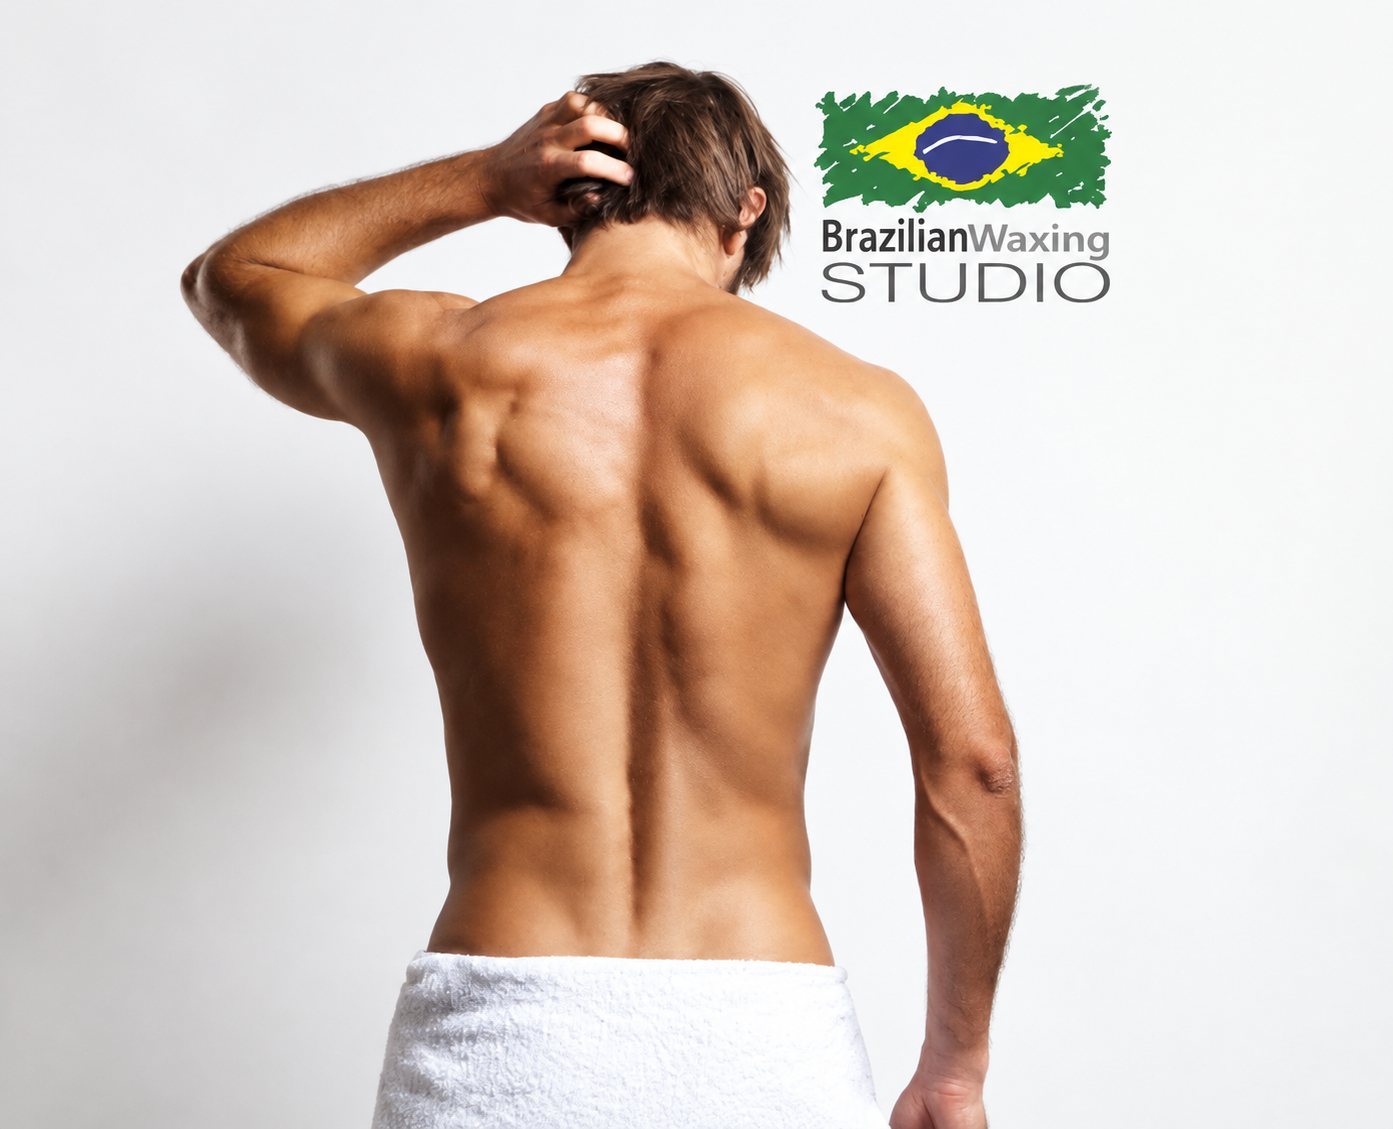
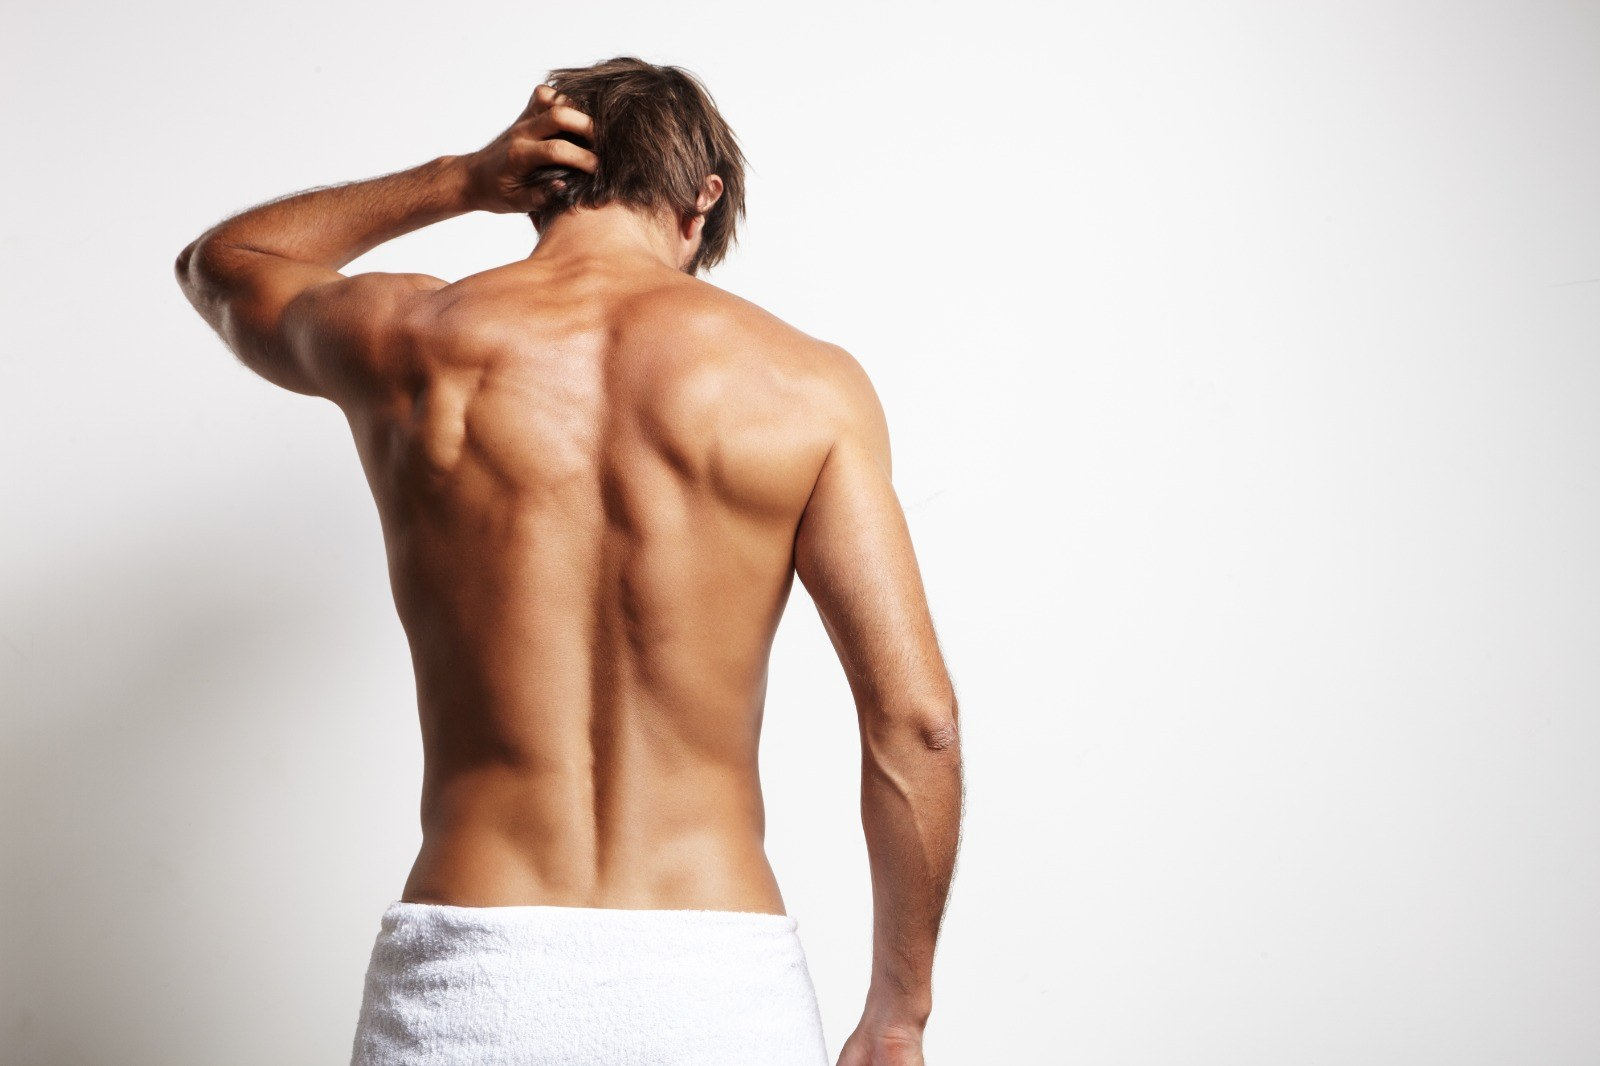
Atualiza o site

diff --git a/index.html b/index.html
@@ -12,13 +12,12 @@
 <header class="site-header">
   <div class="container nav-row">
     <a href="index.html" class="logo" aria-label="Brazilian Wax Studio — home">
-      <img src="assets/logo.png" alt="Brazilian Wax Studio" width="156" height="52">
+      <img src="assets/logo.png" alt="Brazilian Wax Studio" width="72" height="52">
     </a>
     <nav class="nav-links" id="nav-links">
       <a href="index.html" class="active">Home</a>
       <a href="index.html#male-waxing">Male Waxing</a>
       <a href="male-intimate-waxing.html">Intimate Waxing</a>
-      <a href="index.html#body-waxing">Body Waxing</a>
       <a href="sobre-marcia.html">About Me</a>
       <a href="faq.html">Prices &amp; FAQ</a>
     </nav>
@@ -46,7 +45,7 @@
       <p class="hero-treatments" style="margin-top:16px; color:var(--charcoal-60);">Brazilian · Hollywood · Body Waxing</p>
     </div>
     <div class="hero-photo">
-      <figure class="photo-frame"><img src="assets/trabalho-costas-toalha.jpg" alt="Man with a towel after a back waxing treatment, Brazilian Wax Studio London" width="1400" height="1135"></figure>
+      <figure class="photo-frame"><img src="assets/trabalho-costas-toalha.jpg" alt="Man with a towel after a back waxing treatment, Brazilian Wax Studio London" width="1400" height="933"></figure>
       <span class="hero-photo__tag">Specialist male waxing · since 2008</span>
     </div>
   </div>
@@ -307,16 +306,24 @@
   </div>
 </section>
 
-<!-- ============ 09 FAQ ============ -->
-<section class="section section--tight">
-  <div class="container prose-wrap">
+<section class="section section--slate" id="studio-location">
+  <div class="container">
     <div class="section-head center">
-      <span class="eyebrow">Frequently asked questions</span>
-      <h2>Quick answers</h2>
+      <span class="eyebrow">Visit the studio</span>
+      <h2>Find Us in Holborn</h2>
+      <p>7/8 Little Turnstile, Holborn, London WC1V 7DX</p>
     </div>
-    <div class="faq-list"><details><summary>How long should the hair be before waxing?</summary><p>If your hair is long, trimming it to roughly 0.5 cm (about a quarter of an inch) helps the wax grip properly and makes the treatment more comfortable. Please do not shave in the days before your appointment. If you are unsure, ask when you book.</p></details><details><summary>What is the difference between Brazilian and Hollywood waxing?</summary><p>In general, a Hollywood removes all hair from the intimate area, while a Brazilian can leave some hair in place if you prefer. We will talk through exactly what you would like before starting. Full Male Brazilian £60.00, Full Male Hollywood £70.00.</p></details><details><summary>Is male intimate waxing suitable for a first-time client?</summary><p>Yes. That is perfectly normal. You do not need to know the terminology or exactly which treatment to choose. I will discuss the options and answer your questions before I start. See the <a href="first-time.html">first-time guide</a>.</p></details><details><summary>What should I do before and after my appointment?</summary><p>Before: trim long hair and avoid shaving in the days beforehand. After: avoid direct sun and sunbeds for 48 hours, and avoid saunas, hot baths and intense exercise for 24 hours. Some redness is normal and usually settles quickly.</p></details><details><summary>How do I choose the right treatment?</summary><p>You do not need to decide in advance. Tell me what you would like and I will explain the options before I start. If you are unsure, start with the price list above or ask when you book.</p></details></div>
-    <div class="hero-ctas flex-center" style="margin-top:26px;">
-      <a href="faq.html" class="btn btn-outline">Read all FAQs</a>
+    <div class="location-media">
+      <img src="assets/studio-entrance.jpg" alt="Entrance to Brazilian Wax Studio" class="studio-photo">
+      <div class="location-info">
+        <span class="eyebrow">Studio address</span>
+        <h3>Brazilian Wax Studio</h3>
+        <p>7/8 Little Turnstile<br>Holborn, London WC1V 7DX</p>
+        <div class="hero-ctas">
+          <a class="btn btn-outline" href="https://www.google.com/maps/dir/?api=1&amp;destination=7%2F8+Little+Turnstile%2C+Holborn%2C+London+WC1V+7DX" target="_blank" rel="noopener">Get directions</a>
+          <a class="btn btn-primary" href="https://wa.me/447851423765" target="_blank" rel="noopener">Contact to book</a>
+        </div>
+      </div>
     </div>
   </div>
 </section>
@@ -355,28 +362,6 @@
   </div>
 </section>
 
-<section class="section section--slate" id="studio-location">
-  <div class="container">
-    <div class="section-head center">
-      <span class="eyebrow">Visit the studio</span>
-      <h2>Find Us in Holborn</h2>
-      <p>7/8 Little Turnstile, Holborn, London WC1V 7DX</p>
-    </div>
-    <div class="location-media">
-      <img src="assets/studio-entrance.jpg" alt="Entrance to Brazilian Wax Studio" class="studio-photo">
-      <div class="location-info">
-        <span class="eyebrow">Studio address</span>
-        <h3>Brazilian Wax Studio</h3>
-        <p>7/8 Little Turnstile<br>Holborn, London WC1V 7DX</p>
-        <div class="hero-ctas">
-          <a class="btn btn-outline" href="https://www.google.com/maps/dir/?api=1&amp;destination=7%2F8+Little+Turnstile%2C+Holborn%2C+London+WC1V+7DX" target="_blank" rel="noopener">Get directions</a>
-          <a class="btn btn-primary" href="https://wa.me/447851423765" target="_blank" rel="noopener">Contact to book</a>
-        </div>
-      </div>
-    </div>
-  </div>
-</section>
-
 <!-- ============ CTA ============ -->
 <section class="section section--navy section--tight">
   <div class="container text-center">
@@ -394,7 +379,7 @@
   <div class="container footer-grid">
     <div>
       <div class="footer-logo">
-        <img src="assets/logo.png" alt="Brazilian Wax Studio" width="180" height="60" loading="lazy">
+        <img src="assets/logo.png" alt="Brazilian Wax Studio" width="66" height="48" loading="lazy">
       </div>
       <p>London's premier specialist Brazilian waxing studio for men and women, based in Holborn, Central London. Owned and operated by Marcia, master therapist since 2008.</p>
     </div>

diff --git a/male-intimate-waxing.html b/male-intimate-waxing.html
@@ -12,13 +12,12 @@
 <header class="site-header">
   <div class="container nav-row">
     <a href="index.html" class="logo" aria-label="Brazilian Wax Studio — home">
-      <img src="assets/logo.png" alt="Brazilian Wax Studio" width="156" height="52">
+      <img src="assets/logo.png" alt="Brazilian Wax Studio" width="72" height="52">
     </a>
     <nav class="nav-links" id="nav-links">
       <a href="index.html">Home</a>
       <a href="index.html#male-waxing">Male Waxing</a>
       <a href="male-intimate-waxing.html" class="active">Intimate Waxing</a>
-      <a href="index.html#body-waxing">Body Waxing</a>
       <a href="sobre-marcia.html">About Me</a>
       <a href="faq.html">Prices &amp; FAQ</a>
     </nav>
@@ -42,7 +41,7 @@
 </section>
 
 <section class="section section--tight">
-  <div class="container"><figure class="photo-frame photo-frame--wide"><img src="assets/trabalho-costas-toalha.jpg" alt="Client wrapped in a towel after waxing — private and discreet service" width="1400" height="1135" loading="lazy"></figure></div>
+  <div class="container"><figure class="photo-frame photo-frame--wide"><img src="assets/trabalho-costas-toalha.jpg" alt="Client wrapped in a towel after waxing — private and discreet service" width="1400" height="933" loading="lazy"></figure></div>
 </section>
 
 <section class="section">
@@ -71,6 +70,26 @@
       </div>
     </div>
     <div class="hero-ctas flex-center" style="margin-top:30px;"><a href="https://wa.me/447851423765" class="btn btn-primary" target="_blank" rel="noopener">Book via WhatsApp</a></div>
+  </div>
+</section>
+
+<section class="section section--tight">
+  <div class="container">
+    <div class="section-head center"><span class="eyebrow">Know your options</span><h2>Brazilian, Hollywood &amp; Colombian at a glance</h2><p>A simple visual guide to the three most requested male intimate treatments. Marcia will talk through exactly what you would like before she starts.</p></div>
+    <div class="treatment-grid">
+      <figure class="treatment-card">
+        <div class="treatment-card__img"><img src="assets/urso-male-brazilian.png" alt="Teddy bear illustration of a male Brazilian wax" width="909" height="687" loading="lazy"></div>
+        <figcaption><h3>Male Brazilian</h3><p>Hair is removed from the intimate area, and some can be left in place if you prefer.</p><span class="treatment-card__price">£60.00</span></figcaption>
+      </figure>
+      <figure class="treatment-card">
+        <div class="treatment-card__img"><img src="assets/urso-male-hollywood.png" alt="Teddy bear illustration of a male Hollywood wax" width="1068" height="777" loading="lazy"></div>
+        <figcaption><h3>Male Hollywood</h3><p>All hair is removed from the intimate area for a completely smooth result.</p><span class="treatment-card__price">£70.00</span></figcaption>
+      </figure>
+      <figure class="treatment-card">
+        <div class="treatment-card__img"><img src="assets/urso-male-colombian.png" alt="Teddy bear illustration of a male Colombian wax" width="706" height="900" loading="lazy"></div>
+        <figcaption><h3>Male Colombian</h3><p>Marcia will explain exactly what this treatment covers and help you decide if it suits you.</p><span class="treatment-card__price">£50.00</span></figcaption>
+      </figure>
+    </div>
   </div>
 </section>
 
@@ -135,7 +154,7 @@
   <div class="container footer-grid">
     <div>
       <div class="footer-logo">
-        <img src="assets/logo.png" alt="Brazilian Wax Studio" width="180" height="60" loading="lazy">
+        <img src="assets/logo.png" alt="Brazilian Wax Studio" width="66" height="48" loading="lazy">
       </div>
       <p>London's premier specialist male waxing studio, based in Holborn, Central London. Owned and operated by Marcia, master therapist since 2008.</p>
     </div>

diff --git a/what-to-expect.html b/what-to-expect.html
@@ -12,13 +12,12 @@
 <header class="site-header">
   <div class="container nav-row">
     <a href="index.html" class="logo" aria-label="Brazilian Wax Studio — home">
-      <img src="assets/logo.png" alt="Brazilian Wax Studio" width="156" height="52">
+      <img src="assets/logo.png" alt="Brazilian Wax Studio" width="72" height="52">
     </a>
     <nav class="nav-links" id="nav-links">
       <a href="index.html">Home</a>
       <a href="index.html#male-waxing">Male Waxing</a>
       <a href="male-intimate-waxing.html">Intimate Waxing</a>
-      <a href="index.html#body-waxing">Body Waxing</a>
       <a href="sobre-marcia.html">About Me</a>
       <a href="faq.html">Prices &amp; FAQ</a>
     </nav>
@@ -71,6 +70,16 @@
   </div>
 </section>
 
+<section class="section section--tight">
+  <div class="container">
+    <div class="section-head center"><span class="eyebrow">Before you arrive</span><h2>Arrive fresh and clean</h2><p>A shower beforehand is all the preparation your skin needs. Arrive with clean, dry skin, and avoid a heavy workout or hot sauna just before.</p></div>
+    <div class="photo-pair">
+      <figure><img src="assets/chuveiro-esponja-ombro.jpg" alt="Man washing his shoulder with a sponge in the shower" width="1600" height="941" loading="lazy"></figure>
+      <figure><img src="assets/chuveiro-esponja-costas.jpg" alt="Man washing his back with a sponge in the shower" width="1600" height="900" loading="lazy"></figure>
+    </div>
+  </div>
+</section>
+
 <section class="section section--slate section--tight">
   <div class="container prose-wrap">
     <div class="section-head center"><span class="eyebrow">Intimate treatments</span><h2>What clients can expect</h2></div>
@@ -98,7 +107,7 @@
   <div class="container footer-grid">
     <div>
       <div class="footer-logo">
-        <img src="assets/logo.png" alt="Brazilian Wax Studio" width="180" height="60" loading="lazy">
+        <img src="assets/logo.png" alt="Brazilian Wax Studio" width="66" height="48" loading="lazy">
       </div>
       <p>London's premier specialist Brazilian waxing studio for men and women, based in Holborn, Central London. Owned and operated by Marcia, master therapist since 2008.</p>
     </div>

diff --git a/style.css b/style.css
@@ -1147,3 +1147,20 @@ h3{ font-weight: 600; }
   .site-header .nav-cta .nav-book-btn{ padding: 8px 12px; font-size: 12px; white-space: nowrap; }
   .logo img{ height: 34px; }
 }
+
+/* ---------- Treatment illustrations (Brazilian / Hollywood / Colombian) ---------- */
+.treatment-grid{ display:grid; grid-template-columns:repeat(3,1fr); gap:26px; }
+.treatment-card{ margin:0; background:var(--white); border:1px solid var(--border); border-radius:var(--radius); box-shadow:var(--shadow-soft); overflow:hidden; display:flex; flex-direction:column; }
+.treatment-card__img{ background:#fff; padding:22px; height:270px; display:flex; align-items:center; justify-content:center; border-bottom:1px solid var(--border); }
+.treatment-card__img img{ max-width:100%; max-height:100%; width:auto; height:auto; object-fit:contain; display:block; }
+.treatment-card figcaption{ padding:22px 24px 26px; }
+.treatment-card h3{ margin:0 0 8px; font-size:18px; }
+.treatment-card p{ margin:0; color:var(--charcoal-60); font-size:14.5px; }
+.treatment-card__price{ display:inline-block; margin-top:14px; font-weight:600; color:var(--green); }
+@media (max-width:860px){ .treatment-grid{ grid-template-columns:1fr; } .treatment-card__img{ height:240px; } }
+
+/* ---------- Photo pair ---------- */
+.photo-pair{ display:grid; grid-template-columns:repeat(2,1fr); gap:20px; max-width:1000px; margin:0 auto; }
+.photo-pair figure{ margin:0; border-radius:18px; overflow:hidden; box-shadow:var(--shadow-card); background:var(--slate); }
+.photo-pair img{ width:100%; height:auto; aspect-ratio:16/10; object-fit:cover; display:block; }
+@media (max-width:700px){ .photo-pair{ grid-template-columns:1fr; } }

diff --git a/faq.html b/faq.html
@@ -13,13 +13,12 @@
 <header class="site-header">
   <div class="container nav-row">
     <a href="index.html" class="logo" aria-label="Brazilian Wax Studio — home">
-      <img src="assets/logo.png" alt="Brazilian Wax Studio" width="156" height="52">
+      <img src="assets/logo.png" alt="Brazilian Wax Studio" width="72" height="52">
     </a>
     <nav class="nav-links" id="nav-links">
       <a href="index.html">Home</a>
       <a href="index.html#male-waxing">Male Waxing</a>
       <a href="male-intimate-waxing.html">Intimate Waxing</a>
-      <a href="index.html#body-waxing">Body Waxing</a>
       <a href="sobre-marcia.html">About Me</a>
       <a href="faq.html" class="active">Prices &amp; FAQ</a>
     </nav>
@@ -65,7 +64,7 @@
   <div class="container footer-grid">
     <div>
       <div class="footer-logo">
-        <img src="assets/logo.png" alt="Brazilian Wax Studio" width="180" height="60" loading="lazy">
+        <img src="assets/logo.png" alt="Brazilian Wax Studio" width="66" height="48" loading="lazy">
       </div>
       <p>London's premier specialist Brazilian waxing studio for men and women, based in Holborn, Central London. Owned and operated by Marcia, master therapist since 2008.</p>
     </div>

diff --git a/first-time.html b/first-time.html
@@ -12,13 +12,12 @@
 <header class="site-header">
   <div class="container nav-row">
     <a href="index.html" class="logo" aria-label="Brazilian Wax Studio — home">
-      <img src="assets/logo.png" alt="Brazilian Wax Studio" width="156" height="52">
+      <img src="assets/logo.png" alt="Brazilian Wax Studio" width="72" height="52">
     </a>
     <nav class="nav-links" id="nav-links">
       <a href="index.html">Home</a>
       <a href="index.html#male-waxing">Male Waxing</a>
       <a href="male-intimate-waxing.html">Intimate Waxing</a>
-      <a href="index.html#body-waxing">Body Waxing</a>
       <a href="sobre-marcia.html">About Me</a>
       <a href="faq.html">Prices &amp; FAQ</a>
     </nav>
@@ -83,7 +82,7 @@
   <div class="container footer-grid">
     <div>
       <div class="footer-logo">
-        <img src="assets/logo.png" alt="Brazilian Wax Studio" width="180" height="60" loading="lazy">
+        <img src="assets/logo.png" alt="Brazilian Wax Studio" width="66" height="48" loading="lazy">
       </div>
       <p>London's premier specialist Brazilian waxing studio for men and women, based in Holborn, Central London. Owned and operated by Marcia, master therapist since 2008.</p>
     </div>

diff --git a/sobre-marcia.html b/sobre-marcia.html
@@ -12,13 +12,12 @@
 <header class="site-header">
   <div class="container nav-row">
     <a href="index.html" class="logo" aria-label="Brazilian Wax Studio — home">
-      <img src="assets/logo.png" alt="Brazilian Wax Studio" width="156" height="52">
+      <img src="assets/logo.png" alt="Brazilian Wax Studio" width="72" height="52">
     </a>
     <nav class="nav-links" id="nav-links">
       <a href="index.html">Home</a>
       <a href="index.html#male-waxing">Male Waxing</a>
       <a href="male-intimate-waxing.html">Intimate Waxing</a>
-      <a href="index.html#body-waxing">Body Waxing</a>
       <a href="sobre-marcia.html" class="active">About Me</a>
       <a href="faq.html">Prices &amp; FAQ</a>
     </nav>
@@ -120,7 +119,7 @@
   <div class="container footer-grid">
     <div>
       <div class="footer-logo">
-        <img src="assets/logo.png" alt="Brazilian Wax Studio" width="180" height="60" loading="lazy">
+        <img src="assets/logo.png" alt="Brazilian Wax Studio" width="66" height="48" loading="lazy">
       </div>
       <p>London's premier specialist Brazilian waxing studio, based in Holborn, Central London. Owned and operated by Marcia, master therapist since 2008.</p>
     </div>

diff --git a/femenino.html b/femenino.html
@@ -13,7 +13,7 @@
 <header class="site-header">
   <div class="container nav-row">
     <a href="index.html" class="logo" aria-label="Brazilian Wax Studio — home">
-      <img src="assets/logo.png" alt="Brazilian Wax Studio" width="156" height="52">
+      <img src="assets/logo.png" alt="Brazilian Wax Studio" width="72" height="52">
     </a>
     <nav class="nav-links" id="nav-links">
       <a href="index.html">Home</a>
@@ -197,7 +197,7 @@
   <div class="container footer-grid">
     <div>
       <div class="footer-logo">
-        <img src="assets/logo.png" alt="Brazilian Wax Studio" width="180" height="60" loading="lazy">
+        <img src="assets/logo.png" alt="Brazilian Wax Studio" width="66" height="48" loading="lazy">
       </div>
       <p>London's premier specialist Brazilian waxing studio, based in Holborn, Central London. Owned and operated by Marcia, master therapist since 2008.</p>
     </div>
